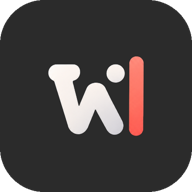
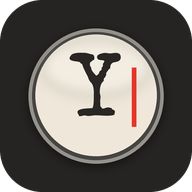
Portada: WhyNote ahora es WhyType, ícono nuevo
Claude-Session: https://claude.ai/code/session_01NXFyG623uibTvfTSYqBJRS

diff --git a/README.md b/README.md
@@ -1,8 +1,10 @@
 <p align="center">
-  <img src="imagenes/icono.png" width="120" alt="WhyNote">
+  <img src="imagenes/icono.png" width="120" alt="WhyType">
 </p>
 
-<h1 align="center">WhyNote</h1>
+<h1 align="center">WhyType</h1>
+
+<p align="center"><sub>Antes WhyNote</sub></p>
 
 <p align="center"><b>Tus notas en una máquina de escribir de verdad.</b></p>
 
@@ -18,7 +20,7 @@
 
 <table align="center">
   <tr>
-    <td align="center" width="33%"><img src="imagenes/pantallas/1-whynote.png" width="240" alt="WhyNote"><br><sub><b>WhyNote</b></sub></td>
+    <td align="center" width="33%"><img src="imagenes/pantallas/1-whynote.png" width="240" alt="WhyType"><br><sub><b>WhyType</b></sub></td>
     <td align="center" width="33%"><img src="imagenes/pantallas/2-escribe.png" width="240" alt="Escribe como en una máquina"><br><sub><b>Escribe como en una máquina</b></sub></td>
     <td align="center" width="33%"><img src="imagenes/pantallas/3-hoja.png" width="240" alt="Lee como una hoja"><br><sub><b>Lee como una hoja</b></sub></td>
   </tr>
@@ -56,14 +58,14 @@
 
 ## Cómo instalarla
 
-**Opción 1: con Obtainium (recomendado).** [Obtainium](https://github.com/ImranR98/Obtainium) instala WhyNote desde aquí y te avisa de cada versión nueva.
+**Opción 1: con Obtainium (recomendado).** [Obtainium](https://github.com/ImranR98/Obtainium) instala WhyType desde aquí y te avisa de cada versión nueva.
 1. Instala Obtainium.
 2. Toca **➕ Agregar a Obtainium** arriba, o en Obtainium toca **Agregar app** y pega:
    `https://github.com/yigaleana-maker/whynote-actualizaciones`
 
 **Opción 2: directo.** Toca **⬇ Descargar la última versión**, abre el archivo y toca **Instalar**. Android te pedirá permitir instalar apps desde tu navegador la primera vez.
 
-Después de instalarla, WhyNote se actualiza sola: cuando hay una versión nueva aparece arriba de tus notas.
+Después de instalarla, WhyType se actualiza sola: cuando hay una versión nueva aparece arriba de tus notas.
 
 ## Todas las versiones
 
@@ -71,4 +73,4 @@ Cada versión, con lo que trae de nuevo, está en [Releases](https://github.com/
 
 ---
 
-<p align="center">¿Algo falló? WhyNote te ofrece enviar un reporte, o escribe a <b>yg4apps@gmail.com</b>.</p>
+<p align="center">¿Algo falló? WhyType te ofrece enviar un reporte, o escribe a <b>yg4apps@gmail.com</b>.</p>
